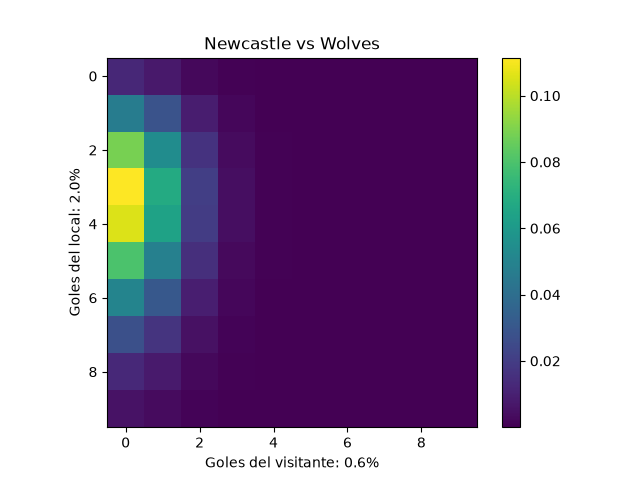
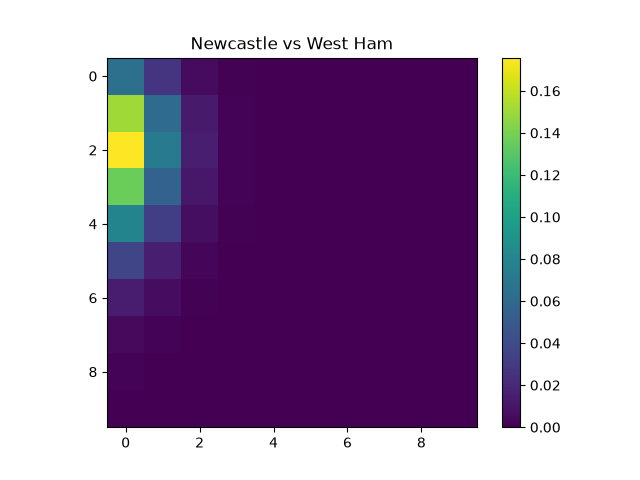
Nuevos avances en el codigo
borrado de lineas innecesarias de codigo y nueva documentacion del
codigo.

diff --git a/main.py b/main.py
@@ -14,22 +14,8 @@ np.set_printoptions(
 )
 
 
-# La funcion 'read_csv' se utiliza para leer unicamente archivos 'csv' esto ayudara para que con ayuda del codigo podamos obtener toda la información necesaria para despues crear analisis deportivos.
+# La funcion 'read_csv' lee el archivo 'premier-league1.csv'.
 leer_archivo = pd.read_csv("datos-partidos/premier-league1.csv")
-# print(leer_archivo)
-
-estructurar_archivo = leer_archivo.shape
-# print(f"\n-- Forma del Dataset --\n{estructurar_archivo}\n")
-
-primeras_filas = leer_archivo.head()
-# print(f"-- Lectura de las primeras filas --\n{primeras_filas}\n")
-
-columnas_tipos = leer_archivo.dtypes
-# print(f"-- Columnas y tipos de datos --\n{columnas_tipos}\n")
-
-valores_nulos = leer_archivo.isnull().sum()
-# print(f"-- Se mostraran las filas y columnas con valores nulos --\n{valores_nulos}")
-
 
 # -- Datos con columnas modificadas esto se hace con el fin de solo utilizar las columnas importantes para nosotros.
 # Dataframe
@@ -122,9 +108,6 @@ def predecir_partido(escritor):
 
     print("="*40)
 
-    # consulta_equipos1 = estadisticas_equipo.loc[equipo_local]
-    # consulta_equipos2 = estadisticas_equipo.loc[equipo_visitante]
-
     goles_anotados_local, goles_recibidos_local = obtener_forma_reciente(equipo_local, True)
     print(f"\nGoles anotados el equipo local {equipo_local}: {goles_anotados_local}\n\ngoles recibidos: {goles_recibidos_local}\n")
     
@@ -135,14 +118,8 @@ def predecir_partido(escritor):
 
     print("="*40)
 
-    # Calculo de la probabilidad de goles anotados por cada equipo
     lambda_local = goles_anotados_local * goles_recibidos_visitante / liga_promedio_goles
-    print(f"\n== Lambda Local ==\n\n{lambda_local:.5f}")
-
-
-    # Calculo de la probabilidad de goles anotados por cada equipo
     lambda_visitante = goles_anotados_visitante * goles_recibidos_local / liga_promedio_goles
-    print(f"\n== Lambda Visitante ==\n\n{lambda_visitante:.5f}")
 
     goles_posibles = np.arange(0, 10)
 
@@ -193,7 +170,18 @@ def predecir_partido(escritor):
 
     fecha = dt.datetime.now().strftime('%Y-%m-%d')
 
-    escritor.writerow([fecha, equipo_local, equipo_visitante, goles_anotados_local, goles_anotados_visitante, goles_recibidos_local, goles_recibidos_visitante, round(lambda_local * 100, 2), round(lambda_visitante * 100, 2), round(probabilidad_victoria_local * 100, 2), round(probabilidad_empate * 100, 2), round(probabilidad_victoria_visitante * 100, 2)])
+    escritor.writerow([fecha, 
+                    equipo_local, 
+                    equipo_visitante, 
+                    goles_anotados_local, 
+                    goles_anotados_visitante, 
+                    goles_recibidos_local, 
+                    goles_recibidos_visitante, 
+                    round(lambda_local * 100, 2), 
+                    round(lambda_visitante * 100, 2), 
+                    round(probabilidad_victoria_local * 100, 2), 
+                    round(probabilidad_empate * 100, 2), 
+                    round(probabilidad_victoria_visitante * 100, 2)])
 
     # Funcionalidad para saber cuantos goles pueden haber en el partido y cual podria ser el posible marcador.
     indice_maximo = np.argmax(matriz_probabilidades)
@@ -221,21 +209,30 @@ def predecir_partido(escritor):
 
     imagen_matriz_colorida = plt.imshow(matriz_probabilidades)
     plt.colorbar(imagen_matriz_colorida)
-    goles_visitante = plt.xlabel(f"Goles del visitante: {goles_anotados_visitante}%")
-    goles_local = plt.ylabel(f"Goles del local: {goles_anotados_local}%")
     plt.title(f"{equipo_local} vs {equipo_visitante}")
     plt.savefig('graficos-analisis/grafico.png')
     plt.show()
 
 
 
-archivo_existe = os.path.exists('resultados-analisis.csv')
+archivo_existe = os.path.exists('busqueda-analisis/resultados-analisis.csv')
 
-with open ('resultados-analisis.csv', 'a', newline='', encoding='utf-8') as archivo:
+with open ('busqueda-analisis/resultados-analisis.csv', 'a', newline='', encoding='utf-8') as archivo:
     escritor = csv.writer(archivo)
 
     if archivo_existe is False:
-        escritor.writerow(['fecha', 'equipo_local', 'equipo_visitante', 'goles_anotados_local', 'goles_anotados_visitante', 'goles_recibidos_local', 'goles_recibidos_visitante', 'lambda_local', 'lambda_visitante', '%probabilidad_victoria_local', '%probabilidad_empate', '%probabilidad_victoria_visitante'])
+        escritor.writerow(['fecha', 
+                        'equipo_local', 
+                        'equipo_visitante', 
+                        'goles_anotados_local', 
+                        'goles_anotados_visitante', 
+                        'goles_recibidos_local', 
+                        'goles_recibidos_visitante', 
+                        'lambda_local', 
+                        'lambda_visitante', 
+                        '%probabilidad_victoria_local', 
+                        '%probabilidad_empate', 
+                        '%probabilidad_victoria_visitante'])
 
     while True:
 
